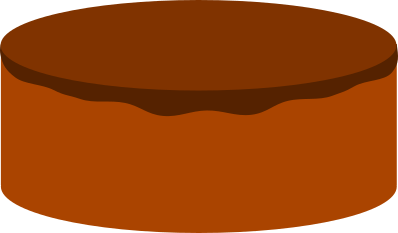
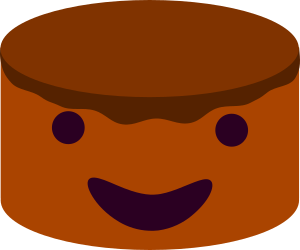
Se añaden sonrisas y rediseñan viejas imagenes de sabores y decorados

diff --git a/index.html b/index.html
@@ -5,7 +5,7 @@
     <meta http-equiv="X-UA-Compatible" content="IE=edge">
     <meta name="viewport" content="width=device-width, initial-scale=1.0">
     <title>Pasteleria</title>
-    <link rel="StyleSheet" href="css/main.css" type="text/css">
+    <link rel="StyleSheet" href="css/maina.css" type="text/css">
 
 </head>
 <body>
@@ -20,12 +20,14 @@
         </nav>
         <hr>
     </header>
-    
-    <hr>
-    <footer>
-        <p>Encuentranos en:</p>
-        <p>Dirección: Unidad habitacional Rinconada de acolapa, plaza de la piramide <br>
-            Telefono: 55 12345678 <br>
+    <section>
+
+    </section>
+        <hr>
+        <footer>
+            <p>Encuentranos en:</p>
+            <p>Dirección: Unidad habitacional Rinconada de acolapa, plaza de la piramide <br>
+                Telefono: 55 12345678 <br>
             Horarios de atención: 9:00 - 18:00
         </p>
     </footer>
